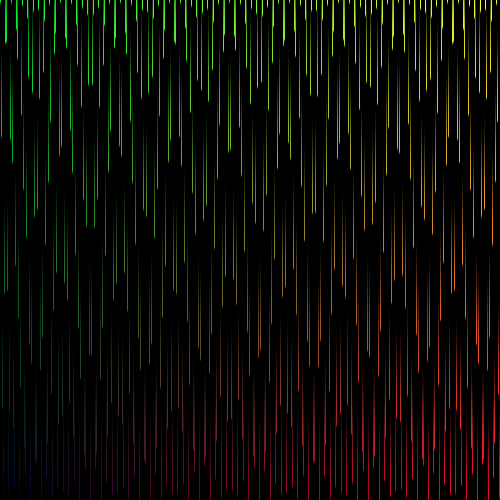
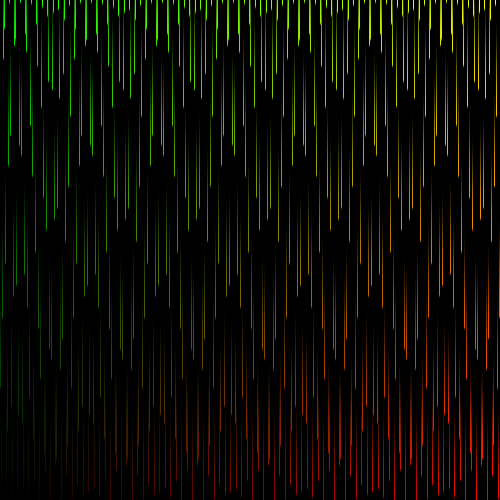
Autogenerate thumbnails

Changed region(s): [[0.0, 0.0, 1.0, 1.0]]

diff --git a/src/thumbnail.js b/src/thumbnail.js
@@ -1,0 +1,31 @@
+const PNG = require('pngjs').PNG
+
+module.exports = function (frag) {
+  const width  = 500
+  const height = 500
+  const gl     = require('gl')(width, height, { preserveDrawingBuffer: true })
+  const render = require('./render')(gl, frag)
+
+  render(0)
+
+  var pixels = new Uint8Array(width * height * 4)
+  gl.readPixels(0, 0, width, height, gl.RGBA, gl.UNSIGNED_BYTE, pixels)
+
+  var data = new Buffer(pixels);
+
+  // Flip the scanlines.
+  var stride = width * 4
+  var tmp = new Buffer(stride)
+  for (var i = 0, j = height - 1; i < j; i++, j--) {
+    var start = i * stride
+    var end = j * stride
+    data.copy(tmp, 0, start, start + stride)
+    data.copy(data, start, end, end + stride)
+    tmp.copy(data, end)
+  }
+
+  const png = new PNG({width, height})
+  png.data = data
+
+  return PNG.sync.write(png)
+}

diff --git a/metalsmith.js b/metalsmith.js
@@ -8,6 +8,7 @@ var layouts = require('metalsmith-layouts');
 var pagination = require('metalsmith-pagination');
 var assets = require('metalsmith-assets');
 var browserify = require('metalsmith-browserify');
+var thumbnail = require('./src/thumbnail');
 
 Handlebars.registerHelper('each-reverse', require('diy-handlebars-helpers/lib/each-reverse'));
 
@@ -34,13 +35,17 @@ module.exports = Metalsmith(__dirname)
         data.layout = 'glsl.html';
         delete files[name];
         files[name.replace(/\.glsl$/, '.html')] = data;
+        files['static/' + name.replace(/\.glsl$/, '.png')] = {
+          contents: thumbnail(data.contents)
+        }
       }
     });
     done();
   })
   .use(permalinks({
     pattern: ':date',
-    date: 'YYYY-MM-DD'
+    date: 'YYYY-MM-DD',
+    relative: false
   }))
   .use(pagination({
     posts: {
